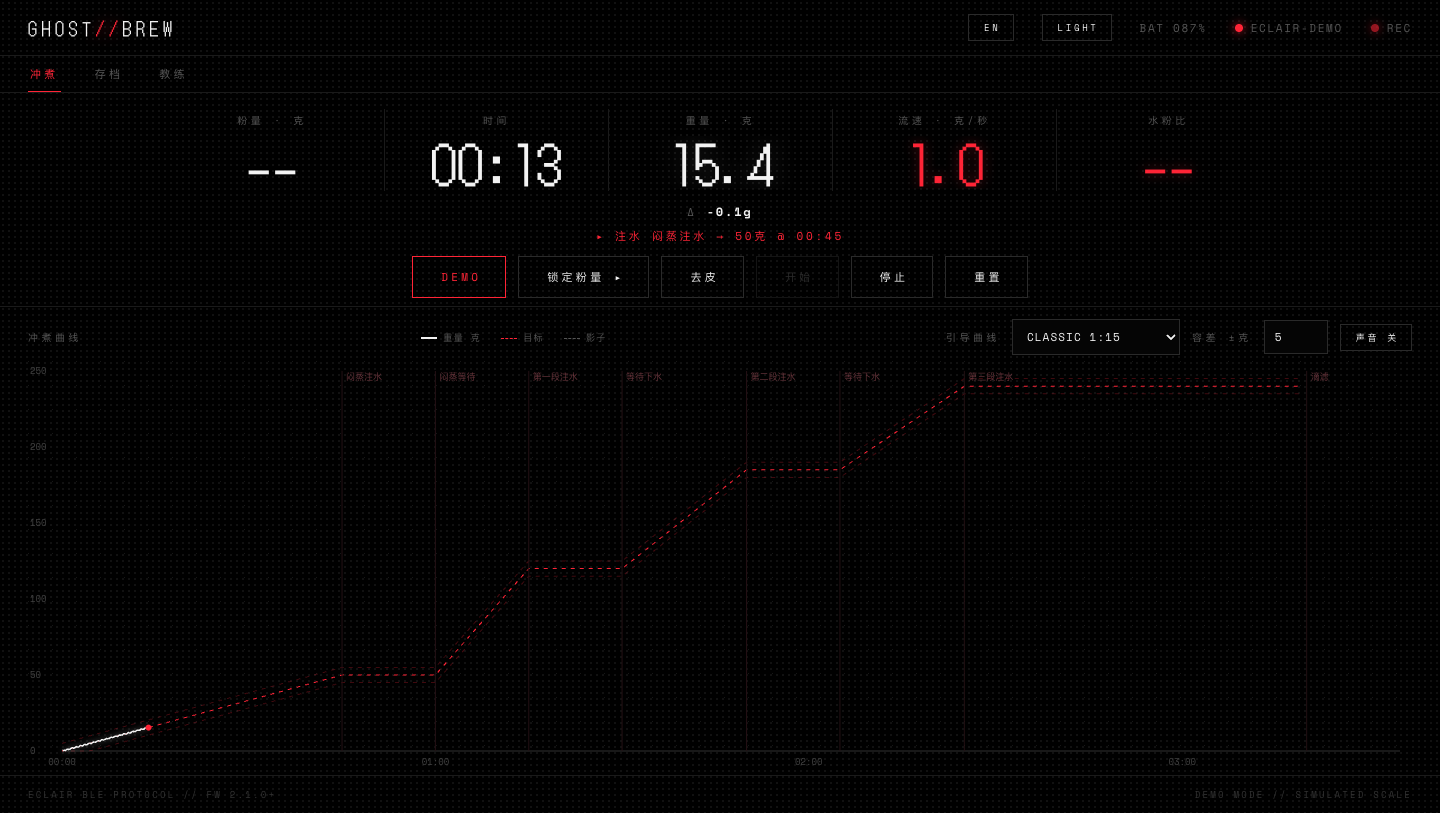
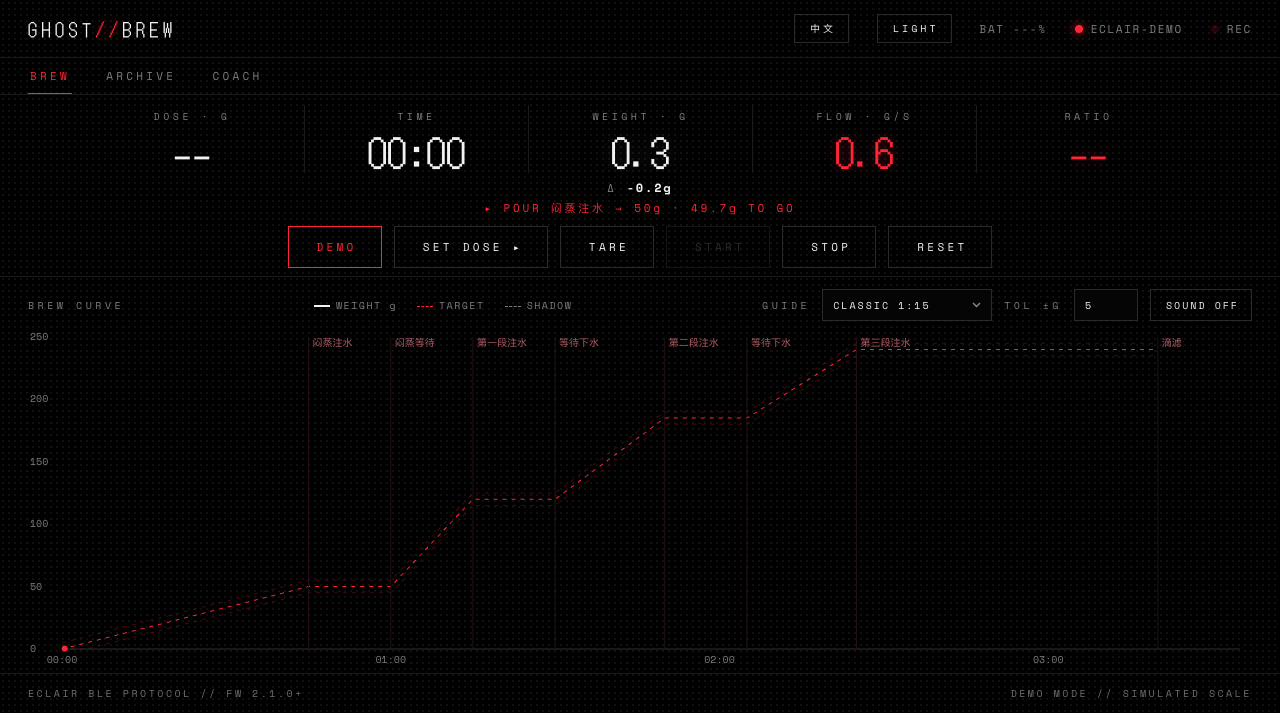
docs: full feature README — live URL, voice cues, motion/a11y craft, fresh screenshot

diff --git a/README.md b/README.md
@@ -1,40 +1,52 @@
 # GHOST//BREW
 
 **手冲咖啡幽灵曲线教练** — 一个连接 AtomHeart Eclair 蓝牙电子秤的单文件网页应用。
-倒一杯好咖啡，全程不用碰手机/App：连接、称豆、开始、停止，全部自动。
+倒一杯好咖啡,全程不用碰手机/App:连接、称豆、开始、停止,全部自动。
+
+**在线使用:<https://ghost-brew-jianxuanxu27-1187s-projects.vercel.app>**(Chrome / Edge,无需安装)
 
 ![screenshot](screenshot.png)
 
 ## 这是什么
 
-对着一条"幽灵曲线"冲咖啡：App 把目标注水曲线（或你某次完美冲煮的历史曲线）画在图上作为影子，你实际的注水曲线实时叠上去，配合容差带、阶段提示和语音/蜂鸣提醒，让每一杯都复刻理想节奏。
+对着一条"幽灵曲线"冲咖啡:App 把目标注水曲线(或你某次完美冲煮的历史曲线)画在图上作为影子,你实际的注水曲线实时叠上去,配合容差带、阶段提示和语音/蜂鸣提醒,让每一杯都复刻理想节奏。
 
-整个 App 就是**一个 `index.html`**——没有构建工具、没有后端、没有依赖安装，数据全部存在浏览器本地（IndexedDB）。
+整个 App 就是**一个 `index.html`**——没有构建工具、没有后端、没有依赖安装,数据全部存在浏览器本地(IndexedDB)。
 
 ## 零操作工作流
 
-配合 Eclair 秤的手冲模式，完整流程只需要动秤，不需要动 App：
+配合 Eclair 秤的手冲模式,完整流程只需要动秤,不需要动 App:
 
-1. 打开页面 —— 自动连接已配对过的秤（Web Bluetooth `getDevices()`）
-2. 在秤上称豆 —— App 被动嗅探稳定重量，自动识别粉量（`~15.2` = 自动识别）
-3. 直接注水 —— 秤检测到流速 > 0.3 g/s 自动开始计时，App 通过蓝牙计时状态消息（`C`）**跟随秤的状态自动开始记录**
-4. 移开滤杯 —— 秤自动停止计时，App 自动停止并弹出存档
+1. 打开页面 —— 自动连接已配对过的秤(Web Bluetooth `getDevices()`)
+2. 在秤上称豆 —— App 被动嗅探稳定重量,自动识别粉量(`~15.2` = 自动识别)
+3. 直接注水 —— 秤开始计时的瞬间,App 通过蓝牙计时状态消息(`C`)**跟随秤自动开始记录**;称豆、放滤杯等任何其他重量变化都不会误触发
+4. 移开滤杯 —— 秤自动停止计时,App 自动停止并弹出存档
 
 ## 功能
 
-- **幽灵曲线教练**：目标曲线 + 容差带；脉冲式配方的阶段提示**按称重判定**——注水/闷蒸段在实际克重达到目标的瞬间才播报（½ 克容差吸收秤的延迟），等待段从上段结束起按时长倒计时；蜂鸣 + 中文/英文语音播报
-- **比例配方**：配方可设「设计粉量」（如 OREA 按 12g 设计），实际粉量不同（12 克 / 16 克）时全部目标克数自动等比缩放，一份配方通吃
-- **五宫格大读数**：粉量 · 时间 · 重量 · 流速 · 水粉比（水粉比基于自动识别的粉量实时计算）
-- **跟随秤状态机**：订阅秤的计时状态通知（`C 0x43`），双向同步开始/停止；流速启发式作为兜底
-- **粉量自动嗅探**：空闲时检测 5–100g 的稳定重量平台并自动采用（滤杯+分享壶 >100g 不会误触发）；也保留手动「锁定粉量」
-- **配方管理**：多配方（目标/编辑/复制/删除）、JSON 导入导出、文本快速导入（粘贴「闷蒸 0:45 50g…」直接解析成配方）；内置 CLASSIC 1:15 和 OREA 两个预设
-- **冲煮存档**：每次冲煮自动记录（重量/流速采样、粉量、时长），可命名保存，历史曲线可作为"影子"再次引导
-- **中英双语**、**暗色/亮色主题**、自动重连，偏好全部持久化
-- **演示模式**：没有秤也能玩 —— 打开 `index.html?demo` 会模拟一台秤并自动冲一壶
+- **幽灵曲线教练**:目标曲线 + 容差带;脉冲式配方的阶段提示**按称重判定**——注水/闷蒸段在实际克重达到目标的瞬间才播报(½ 克容差吸收秤的延迟),等待段从上段结束起按时长倒计时;阶段行实时显示进度(`→ 50克 · 还差 19.8克`)
+- **比例配方**:配方可设「设计粉量」(如 OREA 按 12g 设计),实际粉量不同(12 克 / 16 克)时全部目标克数自动等比缩放——语音提示、图表目标线、阶段进度同步缩放,一份配方通吃
+- **五宫格大读数**:粉量 · 时间 · 重量 · 流速 · 水粉比(水粉比基于自动识别的粉量实时计算)
+- **跟随秤状态机**:订阅秤的计时状态通知(`C 0x43`),双向同步开始/停止;秤端开始/停止 App 必跟随
+- **粉量自动嗅探**:空闲时检测 5–100g 的稳定重量平台并自动采用(滤杯+分享壶 >100g 不会误触发);也保留手动「锁定粉量」
+- **语音 + 蜂鸣提醒**:中英双语播报;英文为完整句式("Pour to 40 grams." / "Stop pouring."),并按比例缩放后的实际克数播报;自动从系统语音库挑选自然声线(过滤 Whisper/Zarvox 这类整蛊音)
+- **配方管理**:多配方(目标/编辑/复制/删除)、JSON 导入导出、文本快速导入(粘贴「闷蒸 0:45 50g…」直接解析成配方,首行写 `粉量: 12` 自动识别设计粉量);内置 CLASSIC 1:15 和 OREA 两个预设
+- **冲煮存档**:每次冲煮自动记录(重量/流速采样、粉量、时长),可命名保存,历史曲线可作为"影子"再次引导
+- **锚定压缩图表**:时间轴从 0 锚定、窗口只增不减,全程曲线(含目标线)始终完整在屏——无滑动丢历史;停止后定格为全量复盘视图
+- **中英双语**、**暗色/亮色主题**、自动重连,偏好全部持久化
+- **演示模式**:没有秤也能玩 —— 打开 `?demo` 会模拟一台秤并自动冲一壶
+
+## 设计细节
+
+- **动效**(参照 [emilkowalski/skills](https://github.com/emilkowalski/skills) 审计):按钮按压回弹、弹窗 `scale(.95)` 淡入、阶段切换闪现提示、冲煮完成的点阵粒子庆祝;全部遵循 `prefers-reduced-motion`(变柔,不归零)
+- **可访问性**:双主题全部文字通过 WCAG AA 对比度(≥4.5:1,含 canvas 刻度/阶段名);全站字号地板 10px;hover 态仅在精确指针设备生效
+- Nothing 风格极简:纯黑/米白双主题、点阵字体、单一红色强调
 
 ## 使用方法
 
-Web Bluetooth 要求 Chrome / Edge，且页面必须通过 `localhost` 或 HTTPS 访问：
+**线上**:直接打开 Vercel 链接(见顶部),HTTPS 已满足 Web Bluetooth 要求。
+
+**本地**:
 
 ```bash
 cd ghost-brew
@@ -42,47 +54,50 @@ python3 -m http.server 8000
 # 打开 http://localhost:8000
 ```
 
-首次点击「连接」选择你的 `ECLAIR-XXXX` 秤；之后打开页面即自动连接。
+Web Bluetooth 要求 Chrome / Edge,且页面必须通过 `localhost` 或 HTTPS 访问。首次点击「连接」选择你的 `ECLAIR-XXXX` 秤;之后打开页面即自动连接。
 
 ## BLE 协议摘要
 
-基于官方公开的 [Eclair 蓝牙协议](https://ef.atomheart.cn/eclair-scale-bluetooth-protocol.html)（设备名前缀 `ECLAIR-`）：
+基于官方公开的 [Eclair 蓝牙协议](https://ef.atomheart.cn/eclair-scale-bluetooth-protocol.html)(设备名前缀 `ECLAIR-`):
 
 | 方向 | 消息 | 头字节 | 内容 |
 |---|---|---|---|
 | 秤 → App | `W` | `0x57` | 重量 (int32 LE, mg) + 计时 (uint32 LE, ms) |
 | 秤 → App | `F` | `0x46` | 流速 (int32 LE, mg/s) + 计时 (ms) |
-| 秤 → App | `C` | `0x43` | 计时状态：`0x01` 开始 / `0x00` 停止（每次变化发 3 次） |
+| 秤 → App | `C` | `0x43` | 计时状态:`0x01` 开始 / `0x00` 停止(每次变化发 3 次) |
 | 秤 → App | `B` | `0x42` | 电量百分比 |
-| App → 秤 | `T` | `0x54` | 去皮（FW 2.1.0+ 不复位计时） |
-| App → 秤 | `R` | `0x52` | 复位计时（计时运行中会被忽略，需先停止） |
+| App → 秤 | `T` | `0x54` | 去皮(FW 2.1.0+ 不复位计时) |
+| App → 秤 | `R` | `0x52` | 复位计时(计时运行中会被忽略,需先停止) |
 | App → 秤 | `S` | `0x53` | 去皮 + 复位 + 开始计时 |
 | App → 秤 | `E` | `0x45` | 停止计时 |
 
-数据通道：`W`/`F` 走 DATA 特征值；`C`/`B` 与命令共用 CONFIG 特征值（记得同时订阅两个特征的 notify）。包格式 = 头字节 + 负载 + 负载 XOR 校验。
+数据通道:`W`/`F` 走 DATA 特征值;`C`/`B` 与命令共用 CONFIG 特征值(记得同时订阅两个特征的 notify)。包格式 = 头字节 + 负载 + 负载 XOR 校验。
 
-> 注：秤的手冲子页面状态（称豆/确定粉量/冲煮）与粉量**不会**通过蓝牙广播——协议里没有此类消息。App 的粉量自动嗅探正是为此设计的。
+> 注:秤的手冲子页面状态(称豆/确定粉量/冲煮)与粉量**不会**通过蓝牙广播——协议里没有此类消息。App 的粉量自动嗅探正是为此设计的。
 
 ## 技术
 
-- 单文件 HTML/CSS/JS，Canvas 绘制曲线（容器查询自适应字号，一屏显示）
-- IndexedDB 三个仓库：`brews`（存档）、`recipes`（配方）、`kv`（偏好）
-- 图表锚定压缩设计：时间轴从 0 锚定、窗口只增不减，全程曲线（含目标线）始终完整在屏——无滑动丢历史，也无跳变；停止后定格为全量复盘视图
+- 单文件 HTML/CSS/JS,Canvas 绘制曲线(容器查询自适应字号,一屏显示)
+- IndexedDB 三个仓库:`brews`(存档)、`recipes`(配方)、`kv`(偏好)
+- 部署:GitHub `main` 推送即自动部署到 Vercel
 
 ---
 
 ## English
 
-**Ghost Brew** — a ghost-curve coach for pour-over coffee, built as a single-file web app for the AtomHeart Eclair BLE scale.
+**Ghost Brew** — a ghost-curve coach for pour-over coffee, built as a single-file web app for the AtomHeart Eclair BLE scale. Brew against a target (or your best past brew) drawn as a shadow, with your live curve on top.
 
-- Target/shadow curves with a tolerance band, pulse-pour recipes whose cues are **weight-driven** (pour stages announce the moment the scale hits the target grams, waits count down by duration), beep & voice cues
-- **Ratio-based recipes**: set a design dose (e.g. OREA = 12g) and every stage target scales to your actual dose — one recipe fits both 12g and 16g
-- Follows the scale's own state machine over BLE (`C` timer-state notifications): pouring starts the recording, lifting the dripper stops it — zero app interaction needed
-- Passive dose sniffing (stable-plateau detection) powers a live brew-ratio readout
-- Multi-recipe management with JSON import/export and a text quick-import; brew archive (IndexedDB); zh/en UI, dark/light themes
-- Try it without a scale: open `index.html?demo`
+**Live: <https://ghost-brew-jianxuanxu27-1187s-projects.vercel.app>** (Chrome/Edge)
 
-**Run:** serve the folder (`python3 -m http.server 8000`) and open it in Chrome/Edge — Web Bluetooth requires localhost or HTTPS.
+- **Zero-touch workflow**: auto-reconnects to your scale on open; sniffed dose adopts itself; recording starts/stops by *following the scale's own timer* (`C` notifications) — weighing beans or placing the dripper never false-triggers it
+- **Weight-driven coaching**: pulse-pour stages announce the moment the scale actually hits the target grams (½g slack), waits count down by duration; live per-stage progress in the stage line
+- **Ratio-based recipes**: set a design dose (e.g. OREA = 12g) and every stage target scales to your actual dose — voice prompts, chart targets and progress all scale together
+- **Natural voice cues**: full-sentence English prompts with the scaled grams ("Pour to 40 grams."), best-match system voice per language (novelty voices filtered out)
+- **Anchored compress-to-fit chart**: the whole brew — target included — is always fully on screen; freezes into a review view on stop
+- Multi-recipe management with JSON import/export and a text quick-import; brew archive (IndexedDB); zh/en UI; dark/light themes, all text WCAG AA in both; motion respects `prefers-reduced-motion`
+- Try it without a scale: append `?demo`
+
+**Run locally:** serve the folder (`python3 -m http.server 8000`) and open it in Chrome/Edge — Web Bluetooth requires localhost or HTTPS.
 
 Protocol credit: [AtomHeart Eclair BLE protocol](https://ef.atomheart.cn/eclair-scale-bluetooth-protocol.html).
 